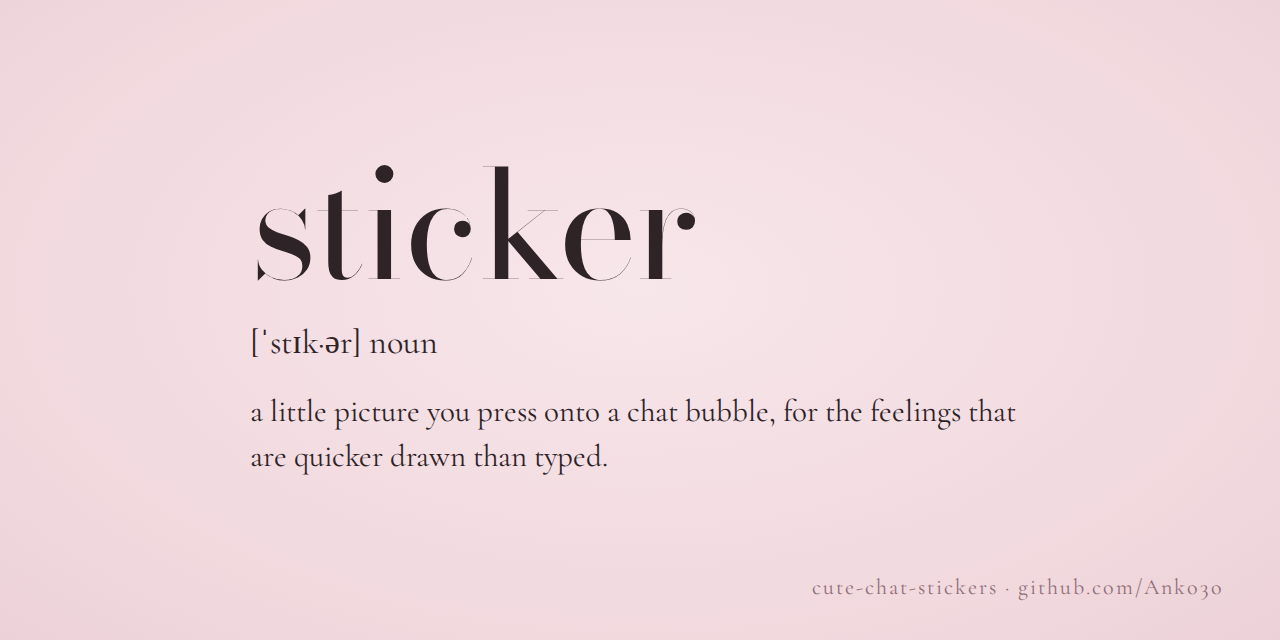
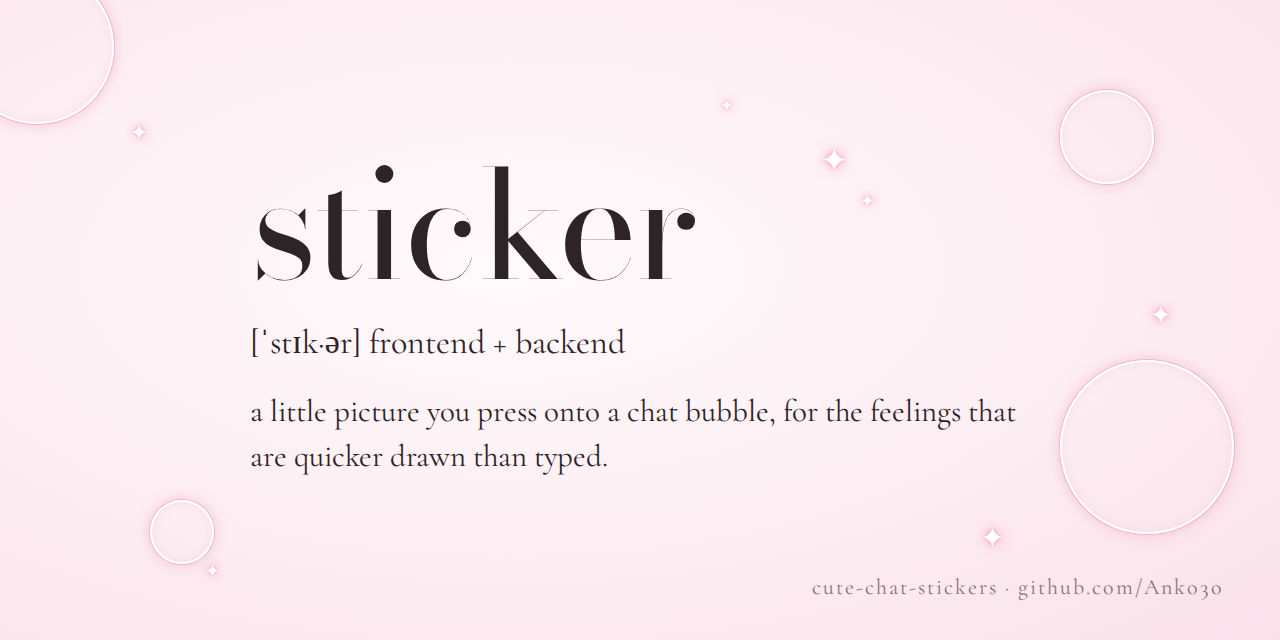
docs: 封面定稿 —— 去掉爱心，词性那格写 frontend + backend，淡粉底加光圈和四角星

diff --git a/docs/og.html b/docs/og.html
@@ -3,28 +3,22 @@
 <head>
 <meta charset="utf-8">
 <title>cute-chat-stickers social card (1280×640) — screenshot this page to make og.png</title>
-<!-- 10-26 · dictionary-entry card: one word, a pronunciation, a definition, lots of pale pink -->
+<!-- 10-26 · dictionary-entry card: one word, a pronunciation, what the repo ships (frontend + backend), a definition; pale pink with a few glowing rings and sparkles -->
 <link rel="preconnect" href="https://fonts.googleapis.com">
 <link rel="stylesheet" href="https://fonts.googleapis.com/css2?family=Bodoni+Moda:opsz@6..96&family=Cormorant+Garamond&display=block">
 <style>
-  html, body{ margin: 0; width: 1280px; height: 640px; overflow: hidden; }
-  body{
-    position: relative; color: #2e2327; font-family: "Cormorant Garamond", serif;
-    background: radial-gradient(ellipse at 50% 45%, #f7e6ea 0%, #f1d9de 70%, #ecd2d8 100%);
-  }
-  .entry{ position: absolute; left: 250px; top: 150px; }
-  h1{ margin: 0; font: 400 150px/1 "Bodoni Moda", serif; letter-spacing: -2px; }
-  .say{ margin: 22px 0 26px; font-size: 34px; }
-  .def{ max-width: 780px; font-size: 31px; line-height: 1.45; }
-  .sig{ position: absolute; right: 56px; bottom: 40px; font-size: 22px; letter-spacing: 2px; color: #8f6f79; }
-</style>
+html,body{margin:0;width:1280px;height:640px;overflow:hidden}
+body{background:radial-gradient(ellipse at 50% 45%,#f7e6ea 0%,#f1d9de 70%,#ecd2d8 100%);color:#2e2327;font-family:"Cormorant Garamond",serif;position:relative}
+.w{position:absolute;left:250px;top:150px}
+h1{font:400 150px/1 "Bodoni Moda",serif;margin:0;letter-spacing:-2px}
+.ph{font-size:34px;margin:22px 0 26px}
+.def{font-size:31px;line-height:1.45;max-width:780px}
+.sig{position:absolute;right:56px;bottom:40px;font-size:22px;letter-spacing:2px;color:#8f6f79}
+.sp{position:absolute;color:#fff;text-shadow:0 0 8px #fff,0 0 2px #fff}.ring{position:absolute;border:2px solid rgba(255,255,255,.85);border-radius:50%;box-shadow:0 0 6px rgba(255,255,255,.6)}body{background:radial-gradient(ellipse at 40% 42%,#fffafc 0%,#fdeef3 55%,#f9e1ea 100%) !important}.sp{color:#fff !important;text-shadow:0 0 3px #f29bbb,0 0 10px #f3a6c2,0 0 20px #f7c3d5 !important}.ring{border-color:#fff !important;box-shadow:0 0 0 1px rgba(236,150,182,.55),0 0 14px rgba(236,150,182,.55),inset 0 0 10px rgba(240,170,195,.25) !important}.hb{position:absolute;left:468px;top:44px}</style>
 </head>
 <body>
-  <div class="entry">
-    <h1>sticker</h1>
-    <div class="say">[ˈstɪk·ər] noun</div>
-    <div class="def">a little picture you press onto a chat bubble, for the feelings that are quicker drawn than typed.</div>
-  </div>
-  <div class="sig">cute-chat-stickers · github.com/Anko3o</div>
+<div class="w"><h1>sticker</h1><div class="ph">[ˈstɪk·ər] frontend + backend</div>
+<div class="def">a little picture you press onto a chat bubble, for the feelings that are quicker drawn than typed.</div></div>
+<div class="ring" style="width:150px;height:150px;left:-40px;top:-30px"></div><div class="ring" style="width:90px;height:90px;left:1060px;top:90px"></div><div class="ring" style="width:170px;height:170px;left:1060px;top:360px"></div><div class="ring" style="width:60px;height:60px;left:150px;top:500px"></div><span class="sp" style="left:820px;top:140px;font-size:34px">✦</span><span class="sp" style="left:860px;top:190px;font-size:18px">✦</span><span class="sp" style="left:1150px;top:300px;font-size:26px">✦</span><span class="sp" style="left:130px;top:120px;font-size:22px">✦</span><span class="sp" style="left:980px;top:520px;font-size:30px">✦</span><span class="sp" style="left:205px;top:560px;font-size:18px">✦</span><span class="sp" style="left:720px;top:96px;font-size:16px">✦</span><div class="sig">cute-chat-stickers · github.com/Anko3o</div>
 </body>
 </html>

diff --git a/README.md b/README.md
@@ -1,6 +1,6 @@
 # cute-chat-stickers
 
-![sticker [ˈstɪk·ər] noun — a little picture you press onto a chat bubble](docs/og.png)
+![sticker [ˈstɪk·ər] frontend + backend — a little picture you press onto a chat bubble](docs/og.png)
 
 给聊天页加三样「贴」——贴背景 emoji、长按给气泡贴表情、自己的表情包库和颜文字（一块像键盘一样停在输入框下面的面板，贴纸和颜文字两页）。
 **长按落在哪，就往哪贴：** 按在空白处贴到聊天背景上，按在气泡上贴到那条消息上，按在图片上贴到那张图上。
